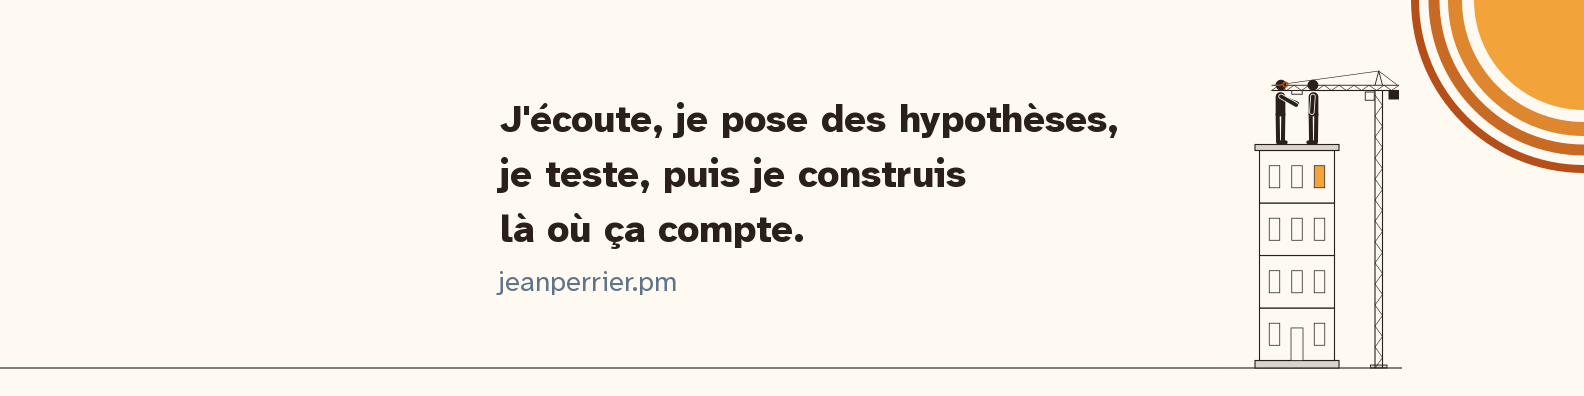
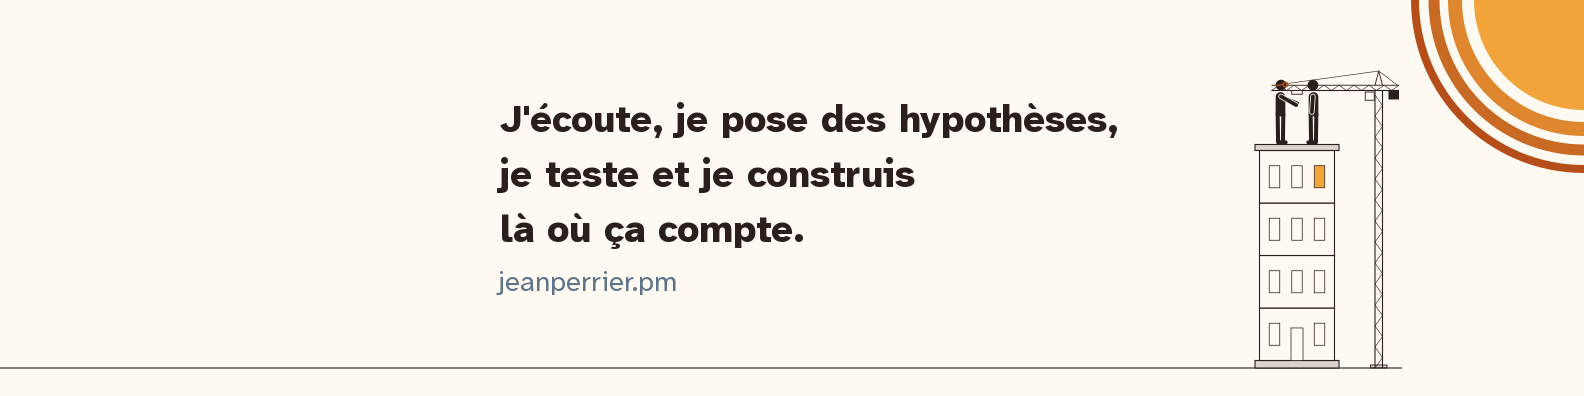
Retours de Jean : et au lieu de puis, retour pedagogique utile, parcours d'apprentissage

Changed region(s): [[0.4021, 0.3939, 0.6187, 0.4848]]

diff --git a/src/contenu/projets.ts b/src/contenu/projets.ts
@@ -46,8 +46,8 @@ export const PROJETS: readonly Projet[] = [
     scene: 'misesEnSituation',
     nom: { fr: 'Mises en situation orales', en: 'Speaking role-plays' },
     fait: {
-      fr: 'L’e-learning permet enfin de travailler l’expression orale : une IA joue l’interlocuteur, et chaque échange se termine par un retour.',
-      en: 'E-learning can finally help learners practice speaking: an AI plays the other person, and every exchange ends with feedback.',
+      fr: 'L’e-learning permet enfin de travailler l’expression orale : une IA joue l’interlocuteur, et chaque échange se termine par un retour pédagogique utile.',
+      en: 'E-learning can finally help learners practice speaking: an AI plays the other person, and every exchange ends with useful learning feedback.',
     },
   },
   {

diff --git a/redaction/mises-en-situation.fr.md b/redaction/mises-en-situation.fr.md
@@ -1,9 +1,9 @@
 ---
 titre: "Mises en situation orales par IA : parier sur une conversation encadrée"
 date: "2026-02"
-fait: "L’e-learning permet enfin de travailler l’expression orale : une IA joue l’interlocuteur, et chaque échange se termine par un retour."
+fait: "L’e-learning permet enfin de travailler l’expression orale : une IA joue l’interlocuteur, et chaque échange se termine par un retour pédagogique utile."
 synthese:
-  probleme: "Sur une plateforme EdTech d’apprentissage des langues, l’apprenant avait peu d’occasions de s’entraîner à parler en situation, face à un recruteur ou à un client. Les conversations avec une IA qu’on trouvait ailleurs restaient souvent hors du parcours, avec des scores sans explication."
+  probleme: "Sur une plateforme EdTech d’apprentissage des langues, l’apprenant avait peu d’occasions de s’entraîner à parler en situation, face à un recruteur ou à un client. Les conversations avec une IA qu’on trouvait ailleurs restaient souvent hors du parcours d’apprentissage, avec des scores sans explication."
   action: "Nous avons parié sur une conversation encadrée : un échange court, sur des questions préparées par l’équipe pédagogique. J’ai cadré la méthode et le Design Sprint avec la product designer et le Product Manager de mon équipe, qui ont ensuite mené entretiens et enquêtes auprès des clients."
   resultat: "Les enquêtes ont validé le format et réordonné la suite : le retour pédagogique d’abord, un catalogue construit sur les thèmes jugés indispensables. Les échanges sont en ligne dans quatre parcours, et le projet a apporté plusieurs dizaines de milliers d’euros de chiffre d’affaires nouveau, auprès de nouveaux clients."
 plusLoin:
@@ -50,7 +50,7 @@ cle: misesEnSituation
 
 Sur une plateforme EdTech d’apprentissage des langues, l’apprenant s’entraînait beaucoup à comprendre et à écrire, moins à parler en situation, face à un recruteur ou devant un jury.
 
-Des applications grand public proposaient déjà de converser avec une IA. L’étude que nous en avons faite en mai 2025 en montrait les limites. Les conversations restaient souvent hors du parcours et les scores n’étaient pas expliqués. Quant à la conversation libre, elle s’éloigne vite de l’objectif pédagogique.
+Des applications grand public proposaient déjà de converser avec une IA. L’étude que nous en avons faite en mai 2025 en montrait les limites. Les conversations restaient souvent hors du parcours d’apprentissage et les scores n’étaient pas expliqués. Quant à la conversation libre, elle s’éloigne vite de l’objectif pédagogique.
 
 Nous avons fait le pari inverse, celui d’une conversation encadrée. L’IA incarne un interlocuteur et mène un échange de deux minutes environ, sur des questions préparées par l’équipe pédagogique. L’apprenant répond à l’oral, dans un fil de messages, sans visio ni pression du temps réel.
 

diff --git a/src/contenu/projets/fr/mises-en-situation.md b/src/contenu/projets/fr/mises-en-situation.md
@@ -1,9 +1,9 @@
 ---
 titre: "Mises en situation orales par IA : parier sur une conversation encadrée"
 date: "2026-02"
-fait: "L’e-learning permet enfin de travailler l’expression orale : une IA joue l’interlocuteur, et chaque échange se termine par un retour."
+fait: "L’e-learning permet enfin de travailler l’expression orale : une IA joue l’interlocuteur, et chaque échange se termine par un retour pédagogique utile."
 synthese:
-  probleme: "Sur une plateforme EdTech d’apprentissage des langues, l’apprenant avait peu d’occasions de s’entraîner à parler en situation, face à un recruteur ou à un client. Les conversations avec une IA qu’on trouvait ailleurs restaient souvent hors du parcours, avec des scores sans explication."
+  probleme: "Sur une plateforme EdTech d’apprentissage des langues, l’apprenant avait peu d’occasions de s’entraîner à parler en situation, face à un recruteur ou à un client. Les conversations avec une IA qu’on trouvait ailleurs restaient souvent hors du parcours d’apprentissage, avec des scores sans explication."
   action: "Nous avons parié sur une conversation encadrée : un échange court, sur des questions préparées par l’équipe pédagogique. J’ai cadré la méthode et le Design Sprint avec la product designer et le Product Manager de mon équipe, qui ont ensuite mené entretiens et enquêtes auprès des clients."
   resultat: "Les enquêtes ont validé le format et réordonné la suite : le retour pédagogique d’abord, un catalogue construit sur les thèmes jugés indispensables. Les échanges sont en ligne dans quatre parcours, et le projet a apporté plusieurs dizaines de milliers d’euros de chiffre d’affaires nouveau, auprès de nouveaux clients."
 plusLoin:
@@ -50,7 +50,7 @@ cle: misesEnSituation
 
 Sur une plateforme EdTech d’apprentissage des langues, l’apprenant s’entraînait beaucoup à comprendre et à écrire, moins à parler en situation, face à un recruteur ou devant un jury.
 
-Des applications grand public proposaient déjà de converser avec une IA. L’étude que nous en avons faite en mai 2025 en montrait les limites. Les conversations restaient souvent hors du parcours et les scores n’étaient pas expliqués. Quant à la conversation libre, elle s’éloigne vite de l’objectif pédagogique.
+Des applications grand public proposaient déjà de converser avec une IA. L’étude que nous en avons faite en mai 2025 en montrait les limites. Les conversations restaient souvent hors du parcours d’apprentissage et les scores n’étaient pas expliqués. Quant à la conversation libre, elle s’éloigne vite de l’objectif pédagogique.
 
 Nous avons fait le pari inverse, celui d’une conversation encadrée. L’IA incarne un interlocuteur et mène un échange de deux minutes environ, sur des questions préparées par l’équipe pédagogique. L’apprenant répond à l’oral, dans un fil de messages, sans visio ni pression du temps réel.
 

diff --git a/redaction/mises-en-situation.en.md b/redaction/mises-en-situation.en.md
@@ -1,7 +1,7 @@
 ---
 titre: "AI speaking role-plays: betting on a guided conversation"
 date: "2026-02"
-fait: "E-learning can finally help learners practice speaking: an AI plays the other person, and every exchange ends with feedback."
+fait: "E-learning can finally help learners practice speaking: an AI plays the other person, and every exchange ends with useful learning feedback."
 synthese:
   probleme: "On an EdTech language-learning platform, learners had few chances to practice speaking in real situations, facing a recruiter or a client. The AI conversations available elsewhere often sat outside the learning path, with scores nobody explained."
   action: "We bet on a guided conversation: a short exchange, built on questions prepared by the learning design team. I framed the method and the Design Sprint with the product designer and the Product Manager on my team, who then ran interviews and surveys with clients."

diff --git a/src/contenu/projets/en/speaking-practice.md b/src/contenu/projets/en/speaking-practice.md
@@ -1,7 +1,7 @@
 ---
 titre: "AI speaking role-plays: betting on a guided conversation"
 date: "2026-02"
-fait: "E-learning can finally help learners practice speaking: an AI plays the other person, and every exchange ends with feedback."
+fait: "E-learning can finally help learners practice speaking: an AI plays the other person, and every exchange ends with useful learning feedback."
 synthese:
   probleme: "On an EdTech language-learning platform, learners had few chances to practice speaking in real situations, facing a recruiter or a client. The AI conversations available elsewhere often sat outside the learning path, with scores nobody explained."
   action: "We bet on a guided conversation: a short exchange, built on questions prepared by the learning design team. I framed the method and the Design Sprint with the product designer and the Product Manager on my team, who then ran interviews and surveys with clients."

diff --git a/registre/0045-phrase-signature-et-date.md b/registre/0045-phrase-signature-et-date.md
@@ -23,3 +23,5 @@ seul), EN sur deux ; aperçu en cinq lignes, serré mais lisible. Champ `date`
 Ratio 2,0 : la longueur de la nouvelle phrase a coûté une passe d'images.
 
 **Révision (Jean, 2026-09-30)** : « J'écoute, je pose des hypothèses, je teste, puis je construis là où ça compte. » (EN « I listen, I form hypotheses, I test, then I build where it counts. »), écouter d'abord. Accueil, À propos, texte alternatif de l'aperçu, aperçus Open Graph et bannières LinkedIn régénérés.
+
+**Retouche (Jean, 2026-09-30)** : « …je teste et je construis là où ça compte. » (EN « …I test and I build where it counts. »), « et » au lieu de « puis » ; aperçus et bannières régénérés. Au passage : Mises en situation « chaque échange se termine par un retour pédagogique utile » (EN « useful learning feedback »), « hors du parcours d'apprentissage ».

diff --git a/redaction/a-propos.fr.md b/redaction/a-propos.fr.md
@@ -14,7 +14,7 @@ Avant, j’ai construit des services publics numériques : à la direction inter
 l’Observatoire de la qualité des démarches en ligne et « Je donne mon
 avis », puis à la direction interministérielle de la transformation publique (DITP), Services publics +.
 
-J’écoute, je pose des hypothèses, je teste, puis je construis là où ça compte.
+J’écoute, je pose des hypothèses, je teste et je construis là où ça compte.
 J’utilise l’IA quand elle sert un besoin précis : classer des retours,
 auditer un contenu, prototyper une fonctionnalité.
 
